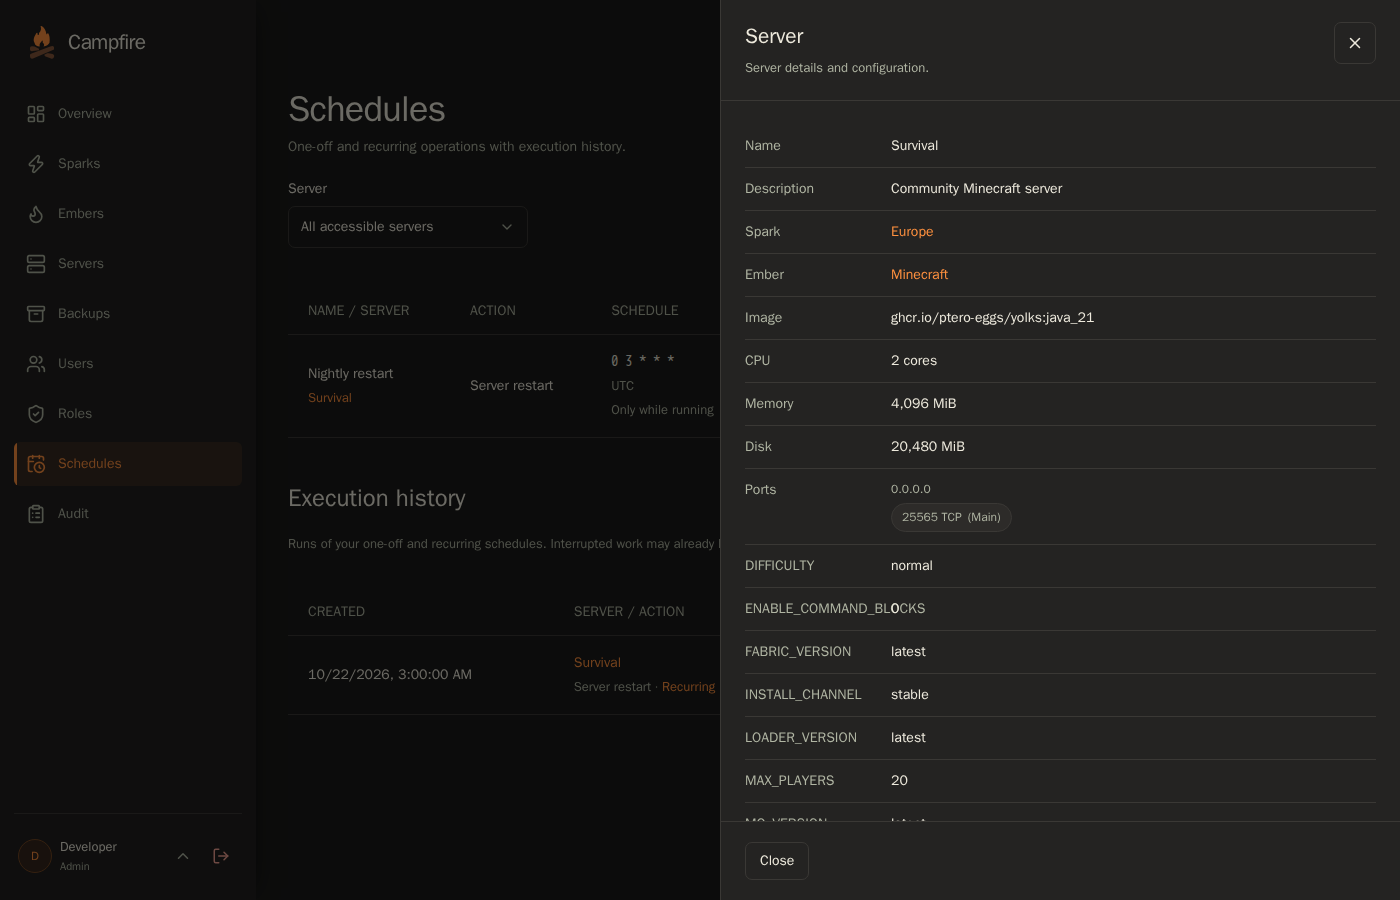
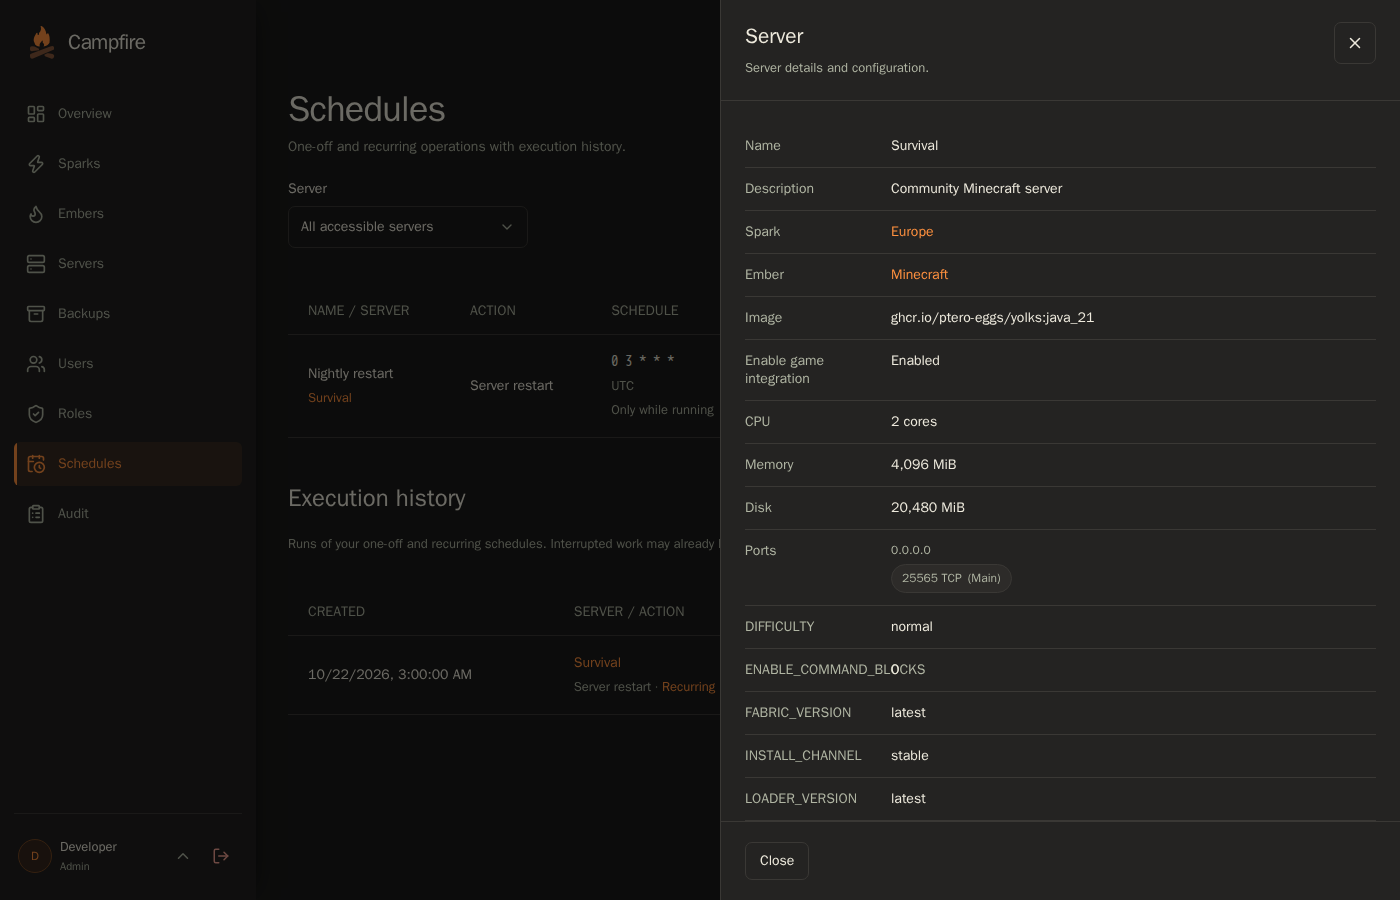
Fix backend CI lint and update server inspection snapshot

diff --git a/backend/internal/spark/agent/game_integration_test.go b/backend/internal/spark/agent/game_integration_test.go
@@ -31,44 +31,63 @@ func gameClient(path string) *http.Client {
 func TestDashboardConfigurationControlsGameEndpoint(t *testing.T) {
 	store := &ConfigurationStore{Directory: t.TempDir()}
 	d := deploymentFixture("node", "game")
+
 	directory, err := os.MkdirTemp("", "game-")
 	if err != nil {
 		t.Fatal(err)
 	}
+
 	defer func() { _ = os.RemoveAll(directory) }()
+
 	g, err := newGameIntegrations(t.Context(), directory, func(id string) bool { return store.savedGame("node", id) })
 	if err != nil {
 		t.Fatal(err)
 	}
 	defer g.close()
+
 	store.games = g
+
 	for _, enabled := range []bool{false, true, false, true} {
 		d.Configuration.GameIntegration = enabled
 		if _, err := store.Deploy(t.Context(), "node", d); err != nil {
 			t.Fatal(err)
 		}
+
 		path, err := g.mount(d.ServerID)
 		if !enabled {
 			if err == nil || store.savedGame("node", d.ServerID) {
 				t.Fatal("disabled integration authorized")
 			}
+
 			g.mu.Lock()
 			endpoint := g.endpoints[d.ServerID]
 			g.mu.Unlock()
+
 			if endpoint != nil {
 				t.Fatal("disabled integration retained its listener")
 			}
+
 			continue
 		}
+
 		if err != nil {
 			t.Fatal(err)
 		}
+
 		client := gameClient(filepath.Join(path, "publish.sock"))
-		response, err := client.Get("http://spark/v1/events/queue")
-		client.CloseIdleConnections()
+
+		request, err := http.NewRequestWithContext(t.Context(), http.MethodGet, "http://spark/v1/events/queue", nil)
 		if err != nil {
 			t.Fatal(err)
 		}
+
+		response, err := client.Do(request)
+		client.CloseIdleConnections()
+
+		if err != nil {
+			t.Fatal(err)
+		}
+
 		_ = response.Body.Close()
 		if response.StatusCode != http.StatusOK {
 			t.Fatal("enabled endpoint unavailable", response.StatusCode)
@@ -83,6 +102,7 @@ func testWireGameIntegration(t *testing.T, hub *agents.Hub, sparkID, directory s
 	defer cancel()
 
 	d := deploymentFixture(sparkID, "game-bridge")
+
 	d.Configuration.GameIntegration = true
 	if _, err := hub.Deploy(ctx, sparkID, d); err != nil {
 		t.Fatal(err)

diff --git a/backend/internal/spark/runtime/management_files_test.go b/backend/internal/spark/runtime/management_files_test.go
@@ -81,29 +81,37 @@ func TestManagedFileLifecycleAndRevisions(t *testing.T) {
 
 func TestManagedDeleteNonEmptyFolderDoesNotFollowSymlinks(t *testing.T) {
 	m, d := fileTestManager(t)
+
 	root := filepath.Join(m.root(d.ServerID), "data")
 	if err := os.MkdirAll(filepath.Join(root, "world", "nested"), 0700); err != nil {
 		t.Fatal(err)
 	}
+
 	for _, name := range []string{"world/nested/save.dat", "world-other.txt"} {
 		if err := os.WriteFile(filepath.Join(root, name), []byte("saved"), 0600); err != nil {
 			t.Fatal(err)
 		}
 	}
+
 	outside := t.TempDir()
+
 	secret := filepath.Join(outside, "secret")
 	if err := os.WriteFile(secret, []byte("private"), 0600); err != nil {
 		t.Fatal(err)
 	}
+
 	if err := os.Symlink(outside, filepath.Join(root, "world", "link")); err != nil {
 		t.Fatal(err)
 	}
+
 	if _, err := m.Files(t.Context(), d, model.FileRequest{ServerID: d.ServerID, Operation: "delete", Path: "world"}); err != nil {
 		t.Fatal(err)
 	}
+
 	if _, err := os.Stat(filepath.Join(root, "world")); !errors.Is(err, os.ErrNotExist) {
 		t.Fatal("folder was not removed", err)
 	}
+
 	for _, name := range []string{secret, filepath.Join(root, "world-other.txt")} {
 		if _, err := os.Stat(name); err != nil {
 			t.Fatal("deletion affected an unrelated file", name, err)

diff --git a/backend/internal/campfire/database/repository/game_media_test.go b/backend/internal/campfire/database/repository/game_media_test.go
@@ -17,20 +17,25 @@ func TestDisabledGameIntegrationRejectsEventsAndMediaRetries(t *testing.T) {
 	events := repository.NewGameEventRepository(db.ORM())
 	mediaStore := repository.NewGameMediaRepository(db.ORM())
 	now := time.Now()
+
 	event := gameEvent(0, now)
 	if err := events.Append(t.Context(), "node", "game", event, now, time.Hour, 10); err != nil {
 		t.Fatal(err)
 	}
+
 	media := model.GameMedia{ID: "shot", Name: "world.png", ContentType: "image/png", Size: 5}
 	if err := mediaStore.Append(t.Context(), "node", "game", event.ID, media, []byte("image")); err != nil {
 		t.Fatal(err)
 	}
+
 	if err := db.ORM().Model(&database.Server{}).Where("id = ?", "game").Update("game_integration", false).Error; err != nil {
 		t.Fatal(err)
 	}
+
 	if err := events.Append(t.Context(), "node", "game", event, now, time.Hour, 10); !errors.Is(err, repository.ErrGameEventPlacement) {
 		t.Fatal("disabled integration accepted an event retry", err)
 	}
+
 	if err := mediaStore.Append(t.Context(), "node", "game", event.ID, media, []byte("image")); !errors.Is(err, model.ErrGameMediaPlacement) {
 		t.Fatal("disabled integration accepted a media retry", err)
 	}

diff --git a/backend/internal/campfire/database/startup_test.go b/backend/internal/campfire/database/startup_test.go
@@ -18,9 +18,11 @@ func TestExistingBaselineAddsStartupSelectionColumn(t *testing.T) {
 	if err := db.ORM().Migrator().DropColumn(&database.Server{}, "StartupCommand"); err != nil {
 		t.Fatal(err)
 	}
+
 	if err := db.ORM().Migrator().DropColumn(&database.Server{}, "StartupOverride"); err != nil {
 		t.Fatal(err)
 	}
+
 	if err := db.ORM().Migrator().DropColumn(&database.Server{}, "GameIntegration"); err != nil {
 		t.Fatal(err)
 	}
@@ -44,9 +46,11 @@ func TestExistingBaselineAddsStartupSelectionColumn(t *testing.T) {
 	if !db.ORM().Migrator().HasColumn(&database.Server{}, "StartupCommand") {
 		t.Fatal("startup selection column was not added to the existing baseline")
 	}
+
 	if !db.ORM().Migrator().HasColumn(&database.Server{}, "StartupOverride") {
 		t.Fatal("startup override column was not added to the existing baseline")
 	}
+
 	if !db.ORM().Migrator().HasColumn(&database.Server{}, "GameIntegration") {
 		t.Fatal("game integration column was not added to the existing baseline")
 	}

diff --git a/backend/internal/campfire/service/server_startup_test.go b/backend/internal/campfire/service/server_startup_test.go
@@ -98,22 +98,27 @@ func TestCreateServerWithCustomStartupAndReset(t *testing.T) {
 	input := f.server.ServerConfiguration
 	input.Name, input.SparkID = "Custom startup", "target"
 	input.StartupOverride = "echo custom; sleep 42"
+
 	server, err := servers.Create(t.Context(), input)
 	if err != nil {
 		t.Fatal(err)
 	}
+
 	saved, err := servers.Get(t.Context(), server.ID)
 	if err != nil || saved.StartupOverride != input.StartupOverride {
 		t.Fatal("custom command was not persisted", saved, err)
 	}
+
 	input.StartupOverride = ""
 	if _, err := servers.Update(t.Context(), server.ID, input); err != nil {
 		t.Fatal(err)
 	}
+
 	saved, err = servers.Get(t.Context(), server.ID)
 	if err != nil || saved.StartupOverride != "" {
 		t.Fatal("reset did not clear the custom command", saved, err)
 	}
+
 	input.StartupOverride = "echo {{UNKNOWN_STARTUP_VARIABLE}}"
 	if _, err := servers.Update(t.Context(), server.ID, input); err == nil {
 		t.Fatal("unknown custom startup variable accepted")

diff --git a/backend/internal/campfire/devmock/file_selection_test.go b/backend/internal/campfire/devmock/file_selection_test.go
@@ -50,6 +50,7 @@ func TestMockSelectedArchiveProducesDownloadableTarGzip(t *testing.T) {
 func TestMockDeletesNonEmptyFolders(t *testing.T) {
 	runtime, _, _, servers := fixture(t)
 	server := servers[0]
+
 	call := func(q model.FileRequest) (model.FileResult, error) {
 		q.ServerID = server.ID
 		return runtime.Files(t.Context(), server.SparkID, q)
@@ -65,6 +66,7 @@ func TestMockDeletesNonEmptyFolders(t *testing.T) {
 			t.Fatal(q, err)
 		}
 	}
+
 	for _, q := range []model.FileRequest{
 		{Operation: "list", Path: "folder"},
 		{Operation: "read", Path: "folder/nested/save.txt"},
@@ -74,6 +76,7 @@ func TestMockDeletesNonEmptyFolders(t *testing.T) {
 			t.Fatal("deleted folder remained accessible or root deletion succeeded", q)
 		}
 	}
+
 	if result, err := call(model.FileRequest{Operation: "read", Path: "folder-other.txt"}); err != nil || string(result.Data) != "keep" {
 		t.Fatal("deletion affected a sibling file", result, err)
 	}

diff --git a/backend/internal/campfire/service/server_game_integration_test.go b/backend/internal/campfire/service/server_game_integration_test.go
@@ -11,17 +11,21 @@ func TestServerGameIntegrationPersistsAndRevokesPublishing(t *testing.T) {
 	f := newTransferFixture(t)
 	servers := f.service.Deployment.Servers
 	games := &GameIntegrationService{Servers: servers}
+
 	frame := protocol.GameFrame{ServerID: f.server.ID, Publication: model.GamePublication{Version: 1, State: &model.GameState{Players: new(1)}}}
 	for _, enabled := range []bool{false, true, false} {
 		input := f.server.ServerConfiguration
+
 		input.GameIntegration = enabled
 		if _, err := servers.Update(t.Context(), f.server.ID, input); err != nil {
 			t.Fatal(err)
 		}
+
 		saved, err := servers.Get(t.Context(), f.server.ID)
 		if err != nil || saved.GameIntegration != enabled {
 			t.Fatal("integration setting not persisted", saved, err)
 		}
+
 		err = games.Receive(t.Context(), saved.SparkID, frame)
 		if (err == nil) != enabled {
 			t.Fatalf("publishing with enabled=%v: %v", enabled, err)

diff --git a/backend/internal/spark/runtime/startup_test.go b/backend/internal/spark/runtime/startup_test.go
@@ -131,21 +131,26 @@ func TestRuntimeStartsCustomCommand(t *testing.T) {
 	d.Configuration.StartupOverride = "echo custom; sleep {{SECONDS}}"
 	m := newTestManager(t.Context(), t.TempDir())
 	t.Cleanup(m.Close)
+
 	docker := &fakeDocker{states: map[string]string{}}
 	m.Docker = docker
+
 	m.Ownership = func(string, string) error { return nil }
 	for _, action := range []string{"install", "start"} {
 		if status := awaitOperation(t, m, d, action, action); status.Error != "" {
 			t.Fatal(status)
 		}
 	}
+
 	docker.mu.Lock()
 	defer docker.mu.Unlock()
+
 	for _, args := range docker.calls {
 		if args[0] == "create" && args[len(args)-1] == "echo custom; sleep ${SECONDS}" && slices.Contains(args, "STARTUP=echo custom; sleep ${SECONDS}") {
 			return
 		}
 	}
+
 	t.Fatal("custom command was not used for shell arguments and STARTUP", docker.calls)
 }
 

diff --git a/backend/internal/spark/runtime/runtime_test.go b/backend/internal/spark/runtime/runtime_test.go
@@ -163,9 +163,11 @@ func TestRuntimeDisabledGameIntegrationHasNoMount(t *testing.T) {
 	d := runtimeFixture()
 	m := newTestManager(t.Context(), t.TempDir())
 	t.Cleanup(m.Close)
+
 	docker := &fakeDocker{states: make(map[string]string)}
 	m.Docker = docker
 	m.Ownership = func(string, string) error { return nil }
+
 	m.GameIntegrationMount = func(string) (string, error) {
 		t.Error("disabled server requested an integration endpoint")
 		return t.TempDir(), nil
@@ -175,8 +177,10 @@ func TestRuntimeDisabledGameIntegrationHasNoMount(t *testing.T) {
 			t.Fatal(status.Error)
 		}
 	}
+
 	docker.mu.Lock()
 	defer docker.mu.Unlock()
+
 	for _, args := range docker.calls {
 		if args[0] == "create" && strings.Contains(strings.Join(args, " "), "campfire-game") {
 			t.Fatal("disabled integration exposed a mount or socket environment", args)

diff --git a/backend/internal/campfire/devfixture/seed.go b/backend/internal/campfire/devfixture/seed.go
@@ -103,6 +103,7 @@ func Seed(ctx context.Context, tx *gorm.DB, now time.Time) ([]Server, error) {
 		configuration := model.ServerConfiguration{Name: item.name, Description: "Community Minecraft server", SparkID: item.spark, EmberID: ember.ID, Image: ember.Images["Java 21"], Variables: variables, CPULimit: 2, MemoryMB: 4096, DiskMB: 20480, Ports: []model.ServerPort{{BindIP: "0.0.0.0", HostPort: 25565 + i, ContainerPort: 25565, Protocol: "tcp"}}}
 
 		server := model.Server{ID: item.id, ServerConfiguration: configuration, EmberHash: model.EmberHash(ember), CreatedAt: now, OwnerUserID: 1}
+
 		server.GameIntegration = true
 		if err := repository.NewServerRepository(tx).Save(ctx, server, true); err != nil {
 			return nil, err

diff --git a/backend/internal/shared/model/ember.go b/backend/internal/shared/model/ember.go
@@ -366,17 +366,21 @@ func (e Ember) ServerStartup(c ServerConfiguration) (string, string, error) {
 	if err != nil || c.StartupOverride == "" {
 		return selection, command, err
 	}
+
 	command = c.StartupOverride
 	if len(command) > 16384 || strings.TrimSpace(command) == "" || strings.ContainsRune(command, '\x00') {
 		return "", "", errors.New("custom startup command must contain 1–16384 bytes without null characters")
 	}
+
 	known := BuiltinEnvironment()
 	for _, variable := range e.Variables {
 		known[variable.Name] = ""
 	}
+
 	if _, err := Startup(command, known); err != nil {
 		return "", "", err
 	}
+
 	return selection, command, nil
 }
 

diff --git a/backend/internal/campfire/devmock/runtime.go b/backend/internal/campfire/devmock/runtime.go
@@ -76,6 +76,7 @@ func (r *Runtime) SparkFeatures(id string) (int, string, []string) {
 	}
 
 	features := []string{protocol.CapabilityConfigure, protocol.CapabilityLifecycle, protocol.CapabilityMetrics, protocol.CapabilityConsole, protocol.CapabilityFiles, protocol.CapabilityReinstall, protocol.CapabilityDiskQuota, protocol.CapabilityBackups, protocol.CapabilitySelfUpdate, protocol.CapabilityPrune}
+
 	features = append(features, protocol.CapabilityStartupOverride)
 	if r.games != nil {
 		features = append(features, protocol.CapabilityGameIntegration, protocol.CapabilityGameEvents)
